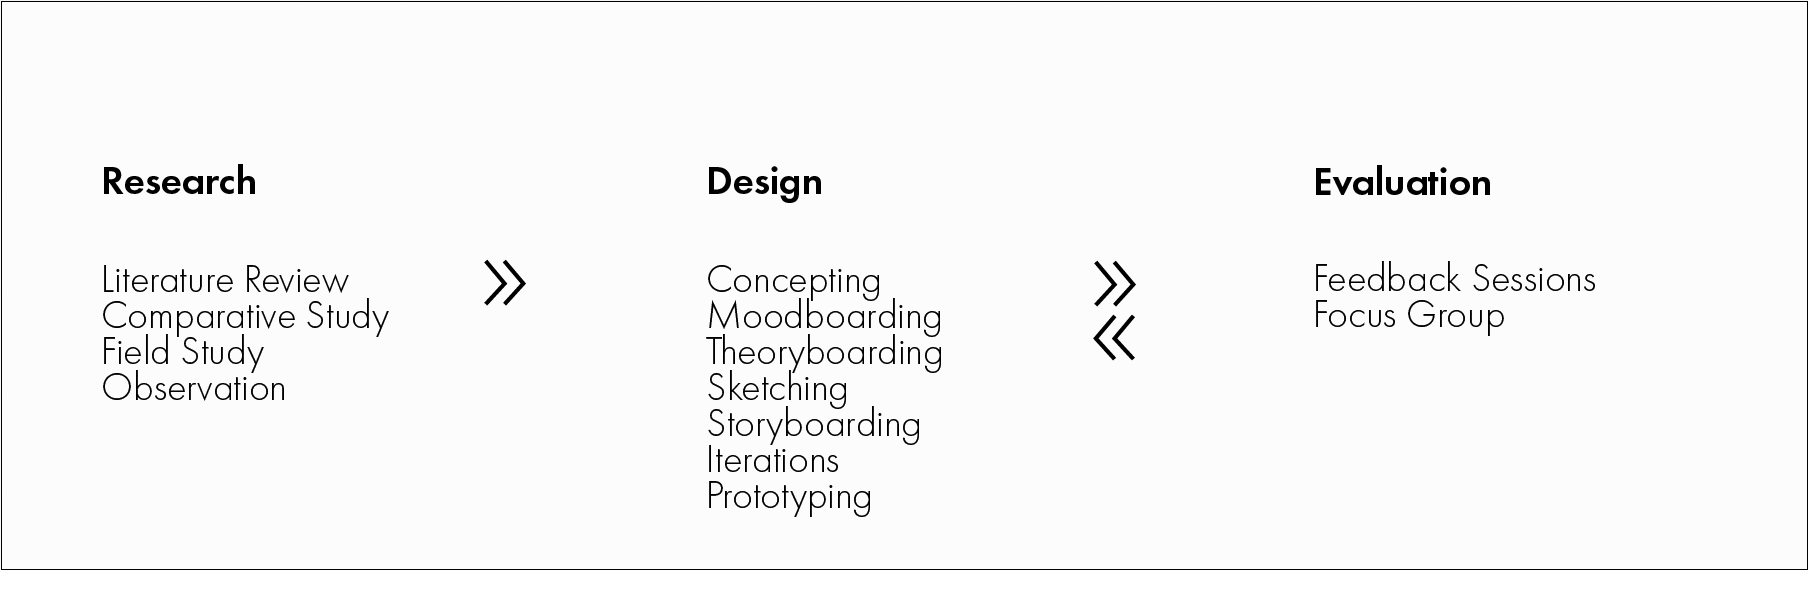
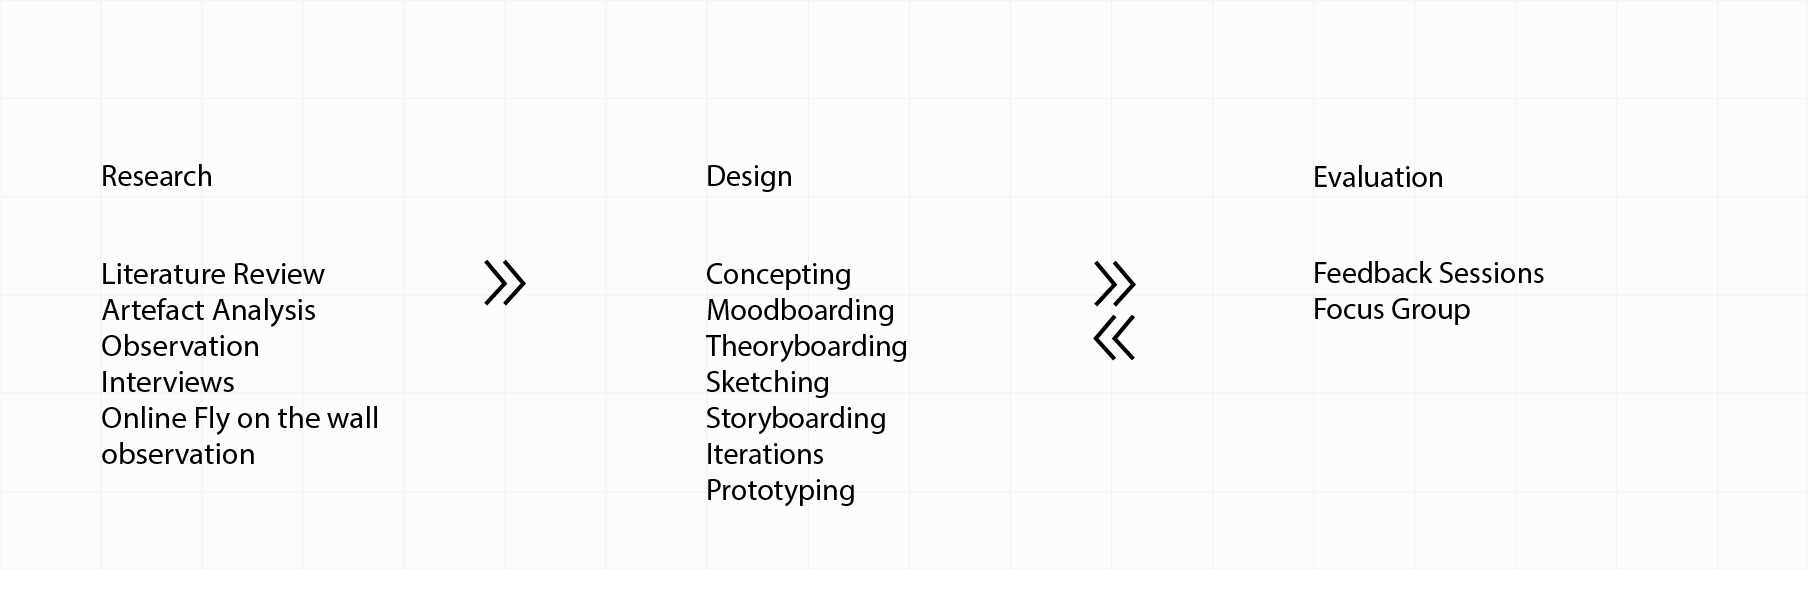
Add files via upload

diff --git a/criticaldesign.html b/criticaldesign.html
@@ -74,8 +74,8 @@
 
                                 <br><br><br>
                                  <p class="subtitlefont">Problem Statement</p>
-                                 <p class="parafont1">One of the central tenets of smart city technologies is the integration of IoT sensors that facilitate non-stop data gathering, keeping an ever-present gaze on to the city. From traffic control, garbage bins, to pollution and gunshot detectors, the city is turned into always sensing and watching megastructure. As the city expands its ever-present gaze on every movement, it becomes more and more difficult for the average citizen to know the location and status of these sensors, what data is being collected, where it is stored, how long it is stored and for what purposes. The invisible gaze of these IoT sensors turns people into a data point incapable of sensing, a number encoding movements, colour, identity, location, time etc.<br>
-                                 I wanted to invok critical mode of inquiry into the emergent digital infrastructure while serving as a point of reflection and conversation around issues of surveillance, control, and citizenship.</p>
+                                 <p class="parafont1">One of the central tenets of smart city technologies is the integration of IoT sensors that facilitate non-stop data gathering, keeping an ever-present gaze on to the city. From traffic control, garbage bins, to pollution and gunshot detectors, the city is turned into always sensing and watching mega structure. As the city expands its ever-present gaze on every movement, it becomes more and more difficult for the average citizen to know the location and status of these sensors, what data is being collected, where it is stored, how long it is stored and for what purposes. The invisible gaze of these IoT sensors turns people into a data point incapable of sensing, a number encoding movements, colour, identity, location, time etc.<br>
+                                 I wanted to invoke critical mode of inquiry into the emergent digital infrastructure while serving as a point of reflection and conversation around issues of surveillance, control, and citizenship.</p>
                                 <br><br><br>
                                 <p class="subtitlefont">Research Question</p>
                                 <p class="parafont1"> How can we create affordances for awareness, framing how we understand, question, and critique the idea of all seeing and all knowing smart city in the context of public surveillance? </p>
@@ -84,14 +84,14 @@
                                 <br>
                                 
                                 <p class="subtitlefont">Design Goals</p>
-                                <p class="parafont1">We want to  design artefacts that will turn the gaze back on the city, and while doing so will act as a point of reflection and conversation around issues of surveillance, control, and citizenship.<br>
+                                <p class="parafont1">We want to  design artefact that will turn the gaze back on the city, and while doing so will act as a point of reflection and conversation around issues of surveillance, control, and citizenship.<br>
                               </p>
 
                                  <br><br><br>
 
                                  <p class="subtitlefont">Project Timeline</p>
 
-                                   <p class="parafont1">  It's a two semester project where we are doing formative research in the first semester followed by concepting and ideation. The upcoming semester will be focused on hi-fidelity prototyping, evalutation and iteration.<br>
+                                   <p class="parafont1">  It's a two semester project where we are doing formative research in the first semester followed by concepting and ideation. The upcoming semester will be focused on hi-fidelity prototyping, evaluation and iteration.<br>
                                <br>
                                
                               </p>
@@ -99,11 +99,13 @@
                                  <br><br><br>
 
                                    <p class="subtitlefont">Theory & Praxis</p>
-                                <p class="parafont1">The philosophcal underpinning is where critical design finds it's power from. It was extremely necessary that the literature review included theoretical study of the history of the surveillance, watching and being watched and how it has evolved to contextualise the present in social-political flow of events.<br><br><br>
+                                <p class="parafont1">The philosophical underpinning is where critical design finds it's power from. It was extremely necessary that the literature review included theoretical study of the history of the surveillance, watching and being watched and how it has evolved to contextualise the present in social-political flow of events.<br><br><br>
                                    <img src="./img/gaze/planproject-02.png"><br>
                               </p>
 
                                  <br><br><br>
+ <!-- Research section heading -->
+
 
                               <h3 class="has-text-black has-text-weight-bold is-size-4 line-anime">Research</h3>
                                 <br><br><br>
@@ -117,26 +119,141 @@
                                  <br><br><br>
 
 
-                                  <p class="subtitlefont">Comparative Study</p>
+                                  <p class="subtitlefont">Artefact Analysis</p>
 
                              
-                                <p class="parafont1">The next step was to conduct a comparative study of existing work ranging from wearables, digital installations to artworks that has been done to critique and resist surveillance. Regarding methodologies and outcomes, most of the existing work broadly fell under the following categories.
+                                <p class="parafont1">The next step was to analyze existing work ranging from wearables, digital installations to artworks that has been done to critique and resist surveillance. Regarding methodologies and outcomes, most of the existing work broadly fell under the following categories.
                                  Activism, Cautionary Tales
 ,Conceptual Design, Contestable Futures, Design Fiction, Interrogative Design, Radical Design, Art
 and Speculative Design.<br><br><br>
                                    <img src="./img/gaze/compstudy-04.png"><br>
                               </p>
 
+
+                              	 <p class="parafont1">The comparison of these artefacts was done on the following parameters. Rather than comparison between each of these we wanted to know the over all pattern to understand their function, context and impact.</p><br>
+
+                              	 <img src="./img/gaze/artefactanalysis.png"><br>
+
+
+
+
                                  <br><br><br>
 
-                                 <p class="subtitlefont">Field Study</p>
+                                 <p class="subtitlefont">Observation</p>
 
                              
-                                <p class="parafont1">To better understand the surveillance spatially, what it looks like and its pervasiveness, I conducted a field study of North Avenue. North Avenue in Atlanta has always been a focus of smart city and henceforth has led to installation of a lor of IoT sensors etc.<br><br><br>
-                                   <img src="./img/gaze/observation-05.png"><br>
-                              </p>
+                                <p class="parafont1">To better understand the surveillance spatially, what it looks like and its pervasiveness, I conducted a field study of North Avenue. North Avenue in Atlanta has always been a focus of smart city and henceforth has led to installation of a lot of IoT sensors etc.<br><br><br>
+                                <img src="./img/gaze/observation-05.png"><br><br>
+                              	</p>
+
+                                 <p class="parafont1">I found that intersections with heaviest traffic where home to greater number of IoT sensors and cameras. At a glance it's difficult to tell which ones are cameras and which ones are traffic sensors. It is easy to detect CCTV because of familiarity but same is not true with other kinds of sensors. With CCTVs made to record covertly it's hard to tell what they are facing.<br><br><br>
+
+
+                                 <p class="subtitlefont">Semi-Structured Interviews</p>
+
+                                 <p class="parafont1"> To evaluate these observations and get a perspective on what most people feel and know about these structures in urban space, I interviewed 5 people. A general pattern that I found was <br><br>
+
+                                
+
+                                <ul class="parafont1" style="color:black!important">
+                                  	<li>People acknowledged that presence of CCTV did regulate their behavior. </li>
+                                  	<li>For many connecting smart city with a surveillance system was not so obvious.</li>
+                                  	<li>Most people were not able to explain their understanding of smart city and they showed faith in it. </li>
+                                  
+                                  	<li>Depending on the demography, the tendency to vouch for surveillance and smart city varied.</li>
+                                  	<li>Only one person out of 5 noticed surveillance that too when they were relaxing or were sitting in public space. </li>
+
+
+
+
+                                  </ul><br><br><br>
+
+
+
+                              <!--   <p class="subtitlefont">Desktop Research</p>
+
+                                 <p class="parafont1">I conducted a research on how smart city as a topic exists on the internet.<br>
+                                 One of the interesting finding was the color palatte, it takes shades of blue. This gives a glimpse into what designers, visual communicators and technologists think of smart city.<br><br><br><br>
+
+                                 <img src="./img/gaze/smartcolors.png"><br><br><br> -->
+
+                                 <p class="subtitlefont">Conclusion</p>
+
+                                  <ul class="parafont1">
+                                  	<li>Depends who you ask, and in what context, people can be pro-privacy or anti-surveillance.</li><br>
+                                  	<li>Cameras are getting better and cheaper, while live video streams can be remotely accessed, stored on the Internet, and passed around. With face recognition becoming the next big thing, do we need to pay attention to the emergent digital infrastructure?</li><br>
+                                  	<li>Atlanta and Chicago are among the 20 most surveilled cities in the world, according to a recent study from technology research firm Comparitech. The findings compared the number of public CCTV cameras, like those used by government entities, per person in 120 global cities.</li><br>
+                                  	<li>Atlanta, with 15.56 public CCTV cameras per 1,000 people, was the only American city in the top 10, among eight Chinese cities and London.</li><br>
+                                  	<li>But this data also had a problem, Campos spokesperson from Atlanta Police Department said 90% of the cameras belong to private and public entities and not to the city.</li><br>
+                                  	<li>The global CCTV market is expected to grow at USD 33.89 Billion by 2020, approx. 18% of CAGR between 2016 and 2020.</li><br>
+                                  	<li>The increased spending on military and defense has allowed these bodies to conduct R&D activities, resulting in new innovations, which allow them to better manage the security and safety of its people and the borders.</li><br>
+                                  	<li>The competitive rivalry in the video surveillance market is high due to the presence of many key players constantly upgrading themselves in order to gain a competitive advantage over other players.</li><br>
+
+                                  </ul><br><br><br><br><br><br>
+
+
+
+
+                               	<!-- <p class="subtitlefont">Probes</p>
+
+                                <p class="parafont1">As I had alread conducted interviews to gauze the response to the suveillance in smart city, the next step was to see how other artefacts faired in communicating critical thinking.<br><br>
+
+                                <p class="parafont1"> Findings </p><br><br><br>
+
+                                <p class="parafont1"> Findings </p><br><br><br><br> -->
+
+<!-- Design.. -->
+                                 <h3 class="has-text-black has-text-weight-bold is-size-4 line-anime">Ideation & Design</h3>
 
                                  <br><br><br>
+                                  <p class="subtitlefont">Mood-boards </p>
+                                  <img src="./img/gaze/moodboard.png"><br><br><br><br><br>
+
+                                  <p class="subtitlefont">Theory-board </p>
+                                  <p class="parafont1"> The complexity and power of critical design lies in the layers and arguments it presents. In order to not stray and also not go down the rabbit hole of presenting too many arguments, I created a theory-board. The theory-board was a collection of quotes from the literature review and the books I read during the research. From Walter Benjamin's Flâneur to Zuboff's Surveillance Capitalism, I made a board of quotes and words that described surveillance,  techno-utopianism, control, privacy and cities. </p><br>
+                                  <img src="./img/gaze/theoryboard.png"><br><br><br><br><br>
+
+                                  <p class="subtitlefont">Concept exploration</p> 
+                                  <img src="./img/gaze/early-sketches.png"><br><br><br><br><br><br>
+
+                              
+
+                                 <!--  <p class="subtitlefont">Evaluation of the three concepts</p>
+                                  <p class="parafont1"> lorem pipsum lorem pipsum lorem pipsum lorem pipsum lorem pipsum lorem pipsum lorem pipsum lorem pipsum lorem pipsum lorem pipsum lorem pipsum</p><br><br><br> -->
+
+                                 
+
+                                  <p class="subtitlefont">Refined Concept</p>
+                                  <p class="parafont1"> The refined concept is to help people explore and store their trail in the real world. The object records their trail recorded by the urban infrastructure. Although they would themselves know where they have been but, this object records only what was recorded by the emergent digital infrastructure. The object will record number of times the person was recorded and the location and by the number of devices.<br> With the minimal information I want people to think start observing and paying attention to the infrastructure when they walk, ask questions and imagine how they look in these recordings, do they look like data points or they look like themselves. There are various questions and thoughts that can come to mind. I want to aid those thoughts and encourage thinking, awareness and actions.</p><br><br>
+                                  <img src="./img/gaze/formexploration-09.png"><br><br><br><br><br><br><br>
+                                 <!--  <p class="subtitlefont">Final Concept</p>
+                                  <p class="parafont1"> lorem pipsum lorem pipsum lorem pipsum lorem pipsum lorem pipsum lorem pipsum lorem pipsum lorem pipsum lorem pipsum lorem pipsum lorem pipsum</p><br><br><br>
+                                   <img src="./img/gaze/prototypelowfi-10.png"><br><br><br><br> -->
+
+
+                                  <p class="subtitlefont">Form Exploration</p>
+                                   <p class="parafont1"> I explored forms and the tactile nature of the idea. The ideas revolved mostly around round shapes so that when one holds these people feel like holding them for longer and it touches their entire palm. The idea is to create intimate relationship between the people and the urban space through this object.</p><br>
+                                    <img src="./img/gaze/prototypelowfi-10.png"><br><br><br><br>
+                                  <img src="./img/gaze/concept.png"><br><br><br><br><br><br><br>
+
+                                   <p class="subtitlefont">Exploration of Visualization</p>
+                                    <p class="parafont1"> I wanted to strike the right balance between abstraction and use. The form and the visualization should not be too abstract and leaning towards art neither should we bloat it with information to make it utilitarian. I created a mood-board for the visualization.To begin with I created a mood-board to guide the visualization. </p><br>
+                                  
+                                    <img src="./img/gaze/visexploration.png"><br><br><br><br>
+
+                                   <p class="subtitlefont">Initial Feedback </p>
+                                  	 <p class="parafont1"> Currently I am designing sessions for first feedback sessions with design experts, academics and people to see their response towards to gauze their emotional response. </p><br><br><br><br><br><br>
+
+
+
+  							<h3 class="has-text-black has-text-weight-bold is-size-4 line-anime">Evaluation & Iterations { Next Step..}</h3><br><br><br><br>
+
+
+  							
+                                  	 <p class="parafont1"> As I conduct the first feedback session with the low fidelity prototype, I will be doing the first iteration and higher fidelity prototype for further evaluation. </p><br>
+                                  	 <p class="parafont1"> With the high fidelity functional prototype we will be doing a longitudinal study where we let people use the object for a few days and see what they felt.</p><br>
+                                 
+                                
 
                                
 

diff --git a/index.html b/index.html
@@ -84,10 +84,10 @@
 										
 											<h1 class="subtitlefont" style="border:none">pragati singh</h1>
 											<br><br>
-											<a class="navstyle" href="https://pragatising.github.io" style="padding-left: 2%;
+											<a class="navstyle" href="gist.html" style="padding-left: 2%;
     border-left: 2px solid black;">portfolio</a>
 											<br>
-											<a class="navstyle"  target="_blank" href="https://drive.google.com/open?id=1q4JvcbXhVHy3MbhfKk2tZxG9DhmbyOIQ">resume</a>
+											<a class="navstyle"  target="_blank" href="https://drive.google.com/file/d/1q4JvcbXhVHy3MbhfKk2tZxG9DhmbyOIQ/view?usp=drive_open">resume</a>
 											<br>
 											<a class="navstyle" href="mailto:pragati.gatech@gmail.com">email</a>
 
@@ -97,7 +97,7 @@
 									
 									<div class="column is-6 parafont">
 										
-										I am a UX Designer and Researcher, currently, a graduate student pursuing Masters in Human-Computer Interaction, at Georgia Tech.<br> <br>My work merges user-centred design with critical inquiry and explores social, political and philosophical aspects of design and technology. I wait for the weekends to make concept art and watch indie movies. 
+										I am a UX Designer and Researcher, currently, a graduate student pursuing Masters in Human-Computer Interaction, at Georgia Tech.<br> <br>My work merges user-centered design with critical inquiry and explores social, political and philosophical aspects of design and technology. I wait for the weekends to make concept art and watch Indie movies. 
 										
 
 									</div>
@@ -107,29 +107,25 @@
 
 
 									<div class="column is-6  is-black is-offset-4" >
-											
-											<h1 class="subtitlefont1">Projects</h1>
-											<br>
-											<h1 class="subtitlefont">UX Design & Research</h1>
-											
-											<a class="parafont" href="handel.html">Swiping contacts faster</a><br>
-											<a class="parafont" href="gist.html" >Un-interrupted Note-taking</a>
+										
+											<h1 class="subtitlefont1">UX Design & Research</h1>
+											<a class="parafont" href="gist.html" >Gist | Un-interrupted Note-taking</a><br>
+											<a class="parafont" href="handel.html">Handl | Swiping contacts faster</a>
 
 											<br>
 											<br>
+											
+
+
+											<h1 class="subtitlefont1">Critical Design</h1>
+											<a class="parafont" href="criticaldesign.html" >Turning the gaze back {On going..}</a><br>
+											
+
 											<br>
 											
-
-
-											<h1 class="subtitlefont">Critical Design</h1>
-											<a class="parafont" href="criticaldesign.html" >Critical Design in the context <br>of smart city, surveillance & privacy</a><br>
 											
 
-											<br><br>
-											
-											
-
-											<h1 class="subtitlefont">Illustrations & Visual Artefacts</h1>
+											<h1 class="subtitlefont1">Illustrations & Visual Artefacts</h1>
 											<a class="parafont" href="conceptual.html" >Conceptual</a><br>
 <!-- 											<a class="parafont" href="funstuff.html">Fun stuff</a> -->
 
